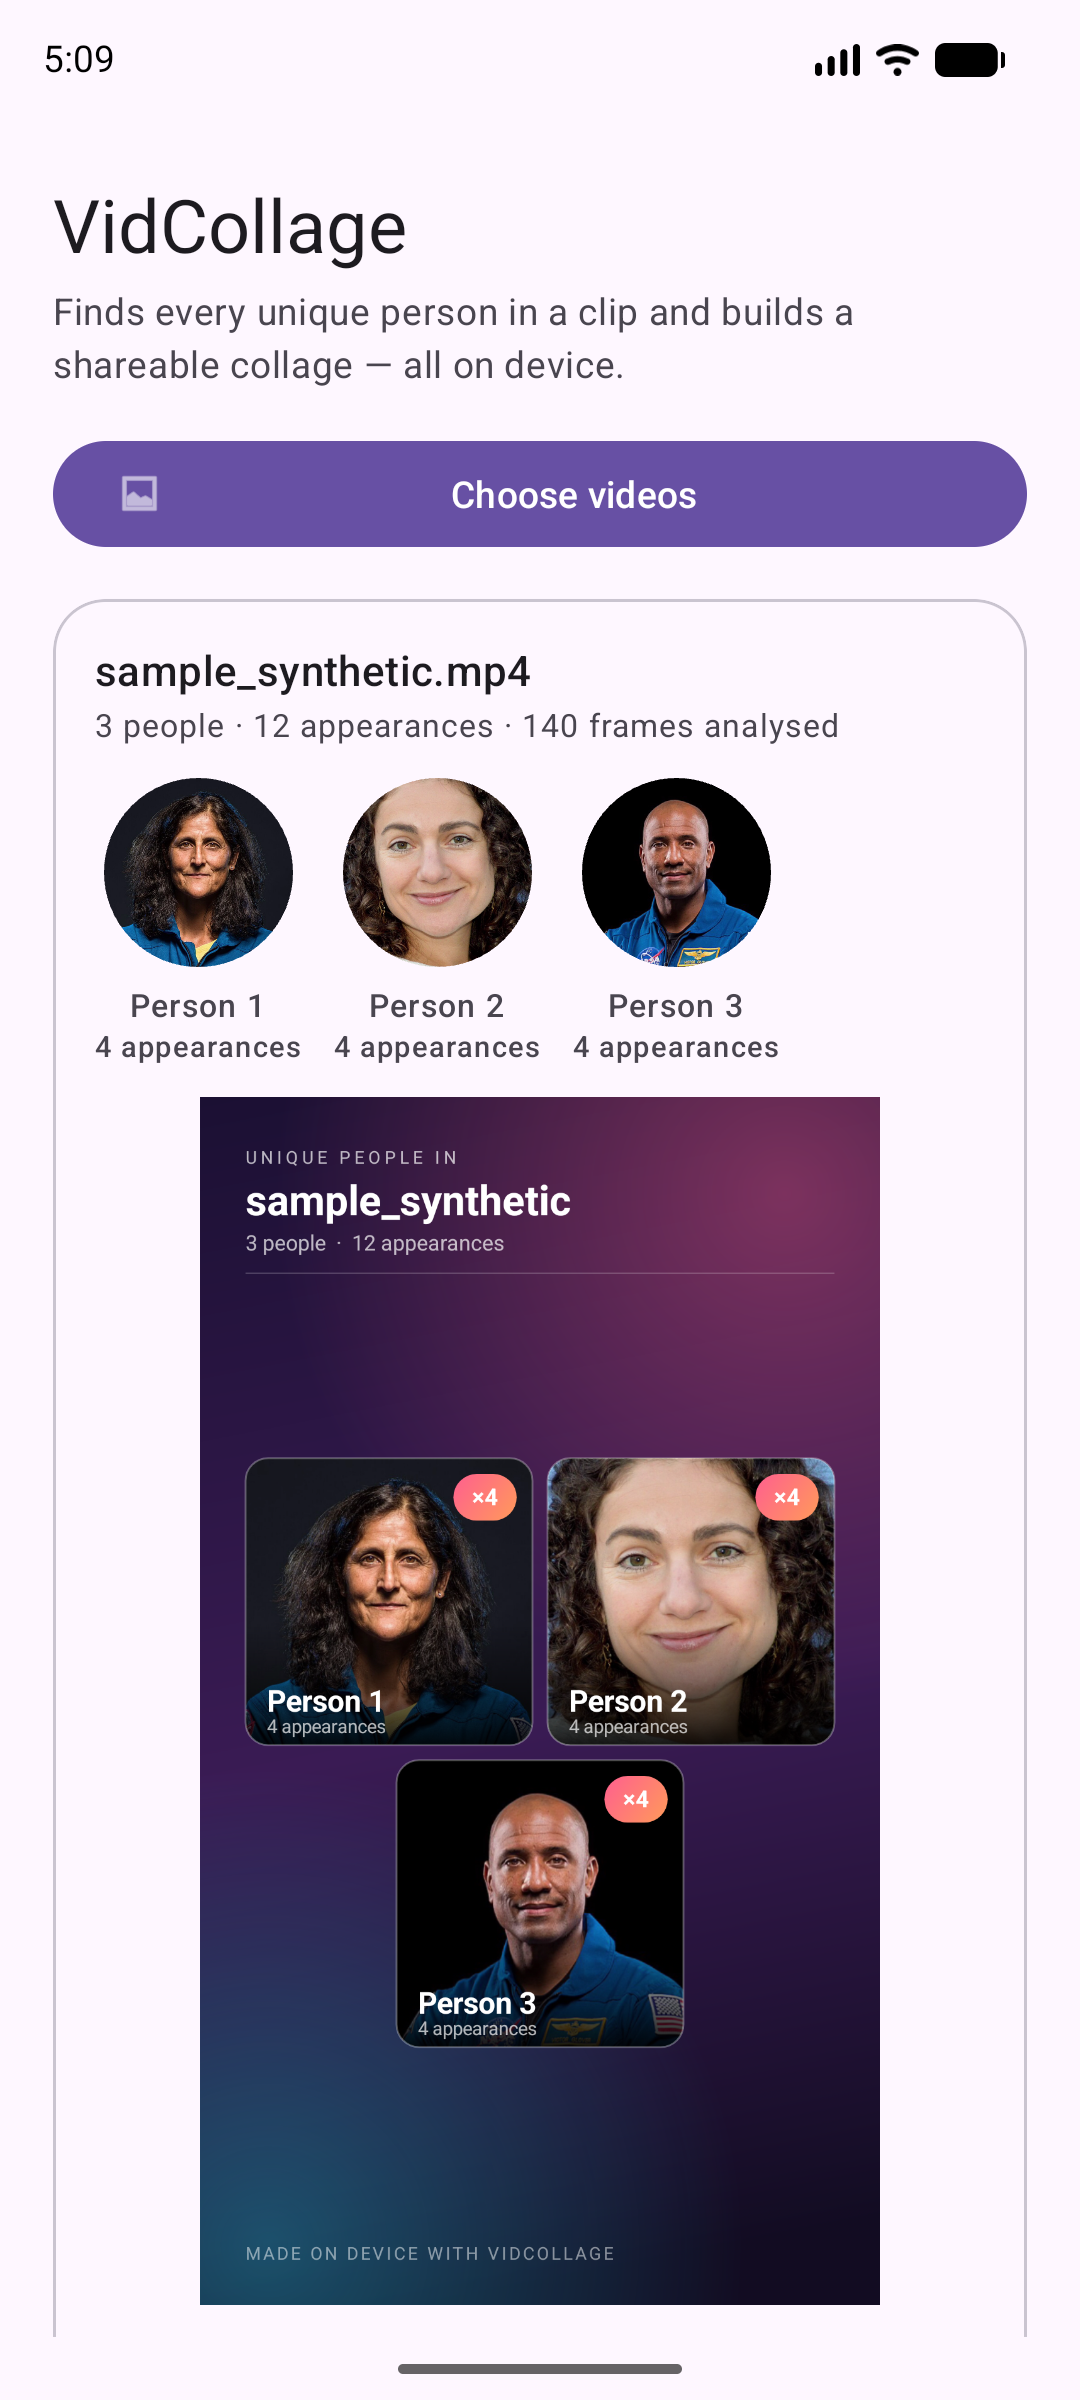
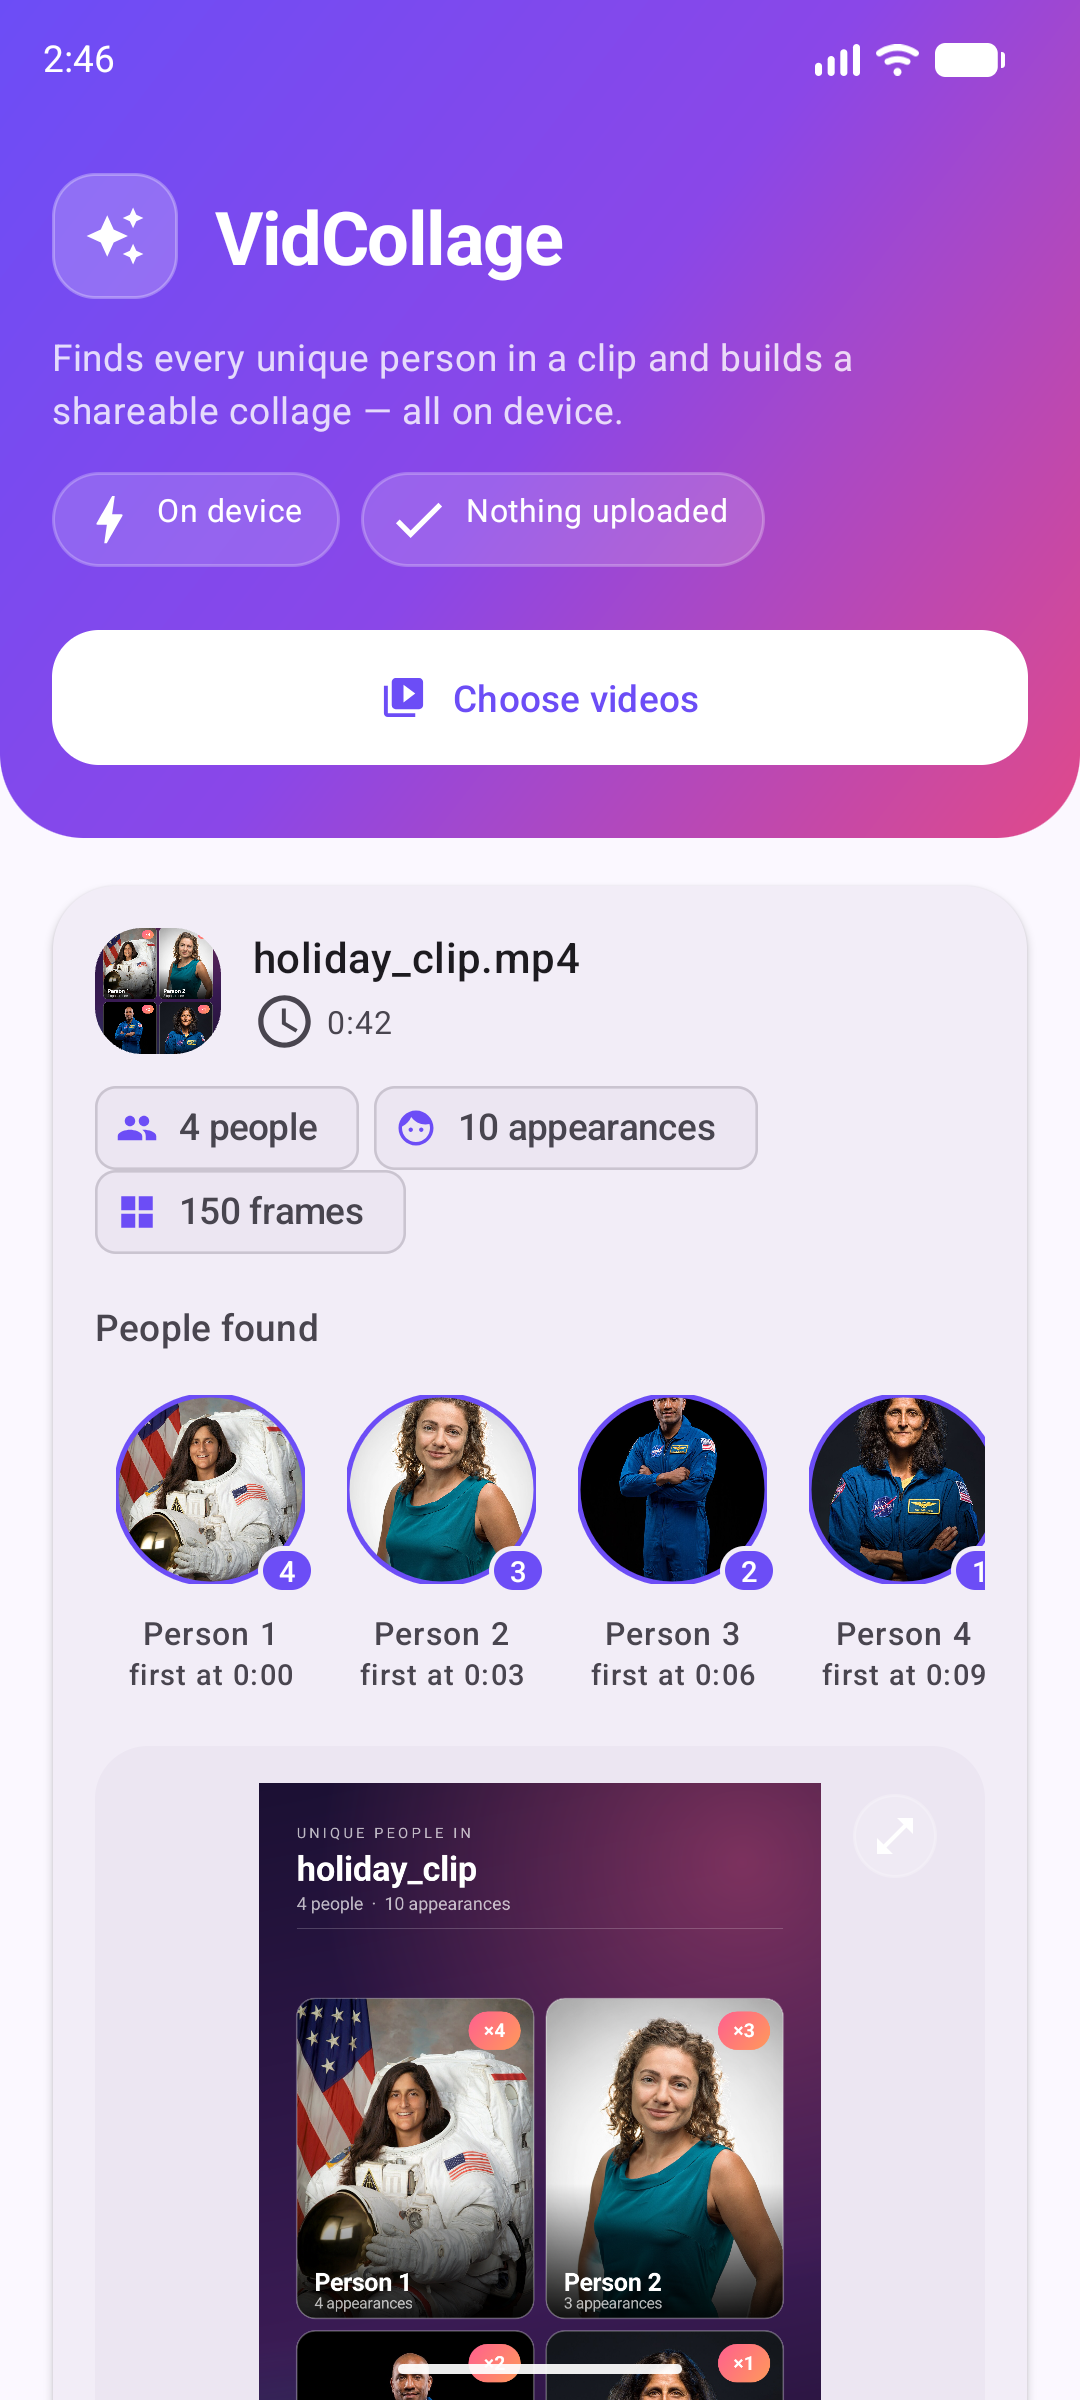
Readme updated

diff --git a/README.md b/README.md
@@ -5,18 +5,84 @@ person shown exactly once alongside how many times they appeared. Everything run
 detection, face embeddings, clustering, shot selection and rendering. There is no backend and no
 network call anywhere in the app.
 
-<img src="docs/screenshot-result.png" width="300" alt="Result screen showing three people and the generated collage">
+<p>
+<img src="docs/screenshot-home.png" width="240" alt="Home screen with the gradient hero and empty state">
+<img src="docs/screenshot-result.png" width="240" alt="Result card showing four people and the generated collage">
+<img src="docs/screenshot-dark.png" width="240" alt="The same result card in dark mode">
+</p>
 
-## Running it
+## At a glance
+
+| | |
+|---|---|
+| **Embedding model** | FaceNet (Inception-ResNet-v1), `app/src/main/assets/facenet.tflite` |
+| **Model input / output** | 160 × 160 × 3 float RGB → 128-D, L2-normalised |
+| **Model size** | 23,705,216 bytes (23.7 MB), bundled in the APK, memory-mapped at runtime |
+| **Face detection** | ML Kit `face-detection` 16.1.7, bundled — no Google Play services needed |
+| **Similarity metric** | Cosine similarity of unit-length embeddings (a plain dot product) |
+| **Identity threshold** | **`MERGE_SIMILARITY = 0.55`** — two clusters are the same person above this |
+| **Tracking threshold** | `MIN_SIMILARITY = 0.45` — a detection may continue an existing appearance above this |
+| **Language / UI** | Kotlin, XML views, Material 3, `minSdk 26`, `targetSdk 37` |
+
+Both thresholds are justified by measurement in [Choosing the similarity threshold](#choosing-the-similarity-threshold).
+
+## Build and setup
+
+### Prerequisites
+
+| | |
+|---|---|
+| **JDK** | 25 — pinned in `gradle/gradle-daemon-jvm.properties`. Gradle downloads a matching toolchain automatically if you do not have one. |
+| **Android SDK** | Platform **API 37** and platform-tools. Install via Android Studio's SDK Manager or `sdkmanager "platforms;android-37" "platform-tools"`. |
+| **Gradle / AGP** | Gradle 9.5 (via the committed wrapper — do not install it yourself) and AGP 9.3.2. |
+| **Device** | Any device or emulator on **API 26+**. Both face models ship inside the APK, so no Play services and no network are required. |
+
+### Point the build at your SDK
+
+`local.properties` is gitignored, so create it after cloning:
 
 ```bash
-./gradlew :app:installDebug
+echo "sdk.dir=$HOME/Library/Android/sdk" > local.properties   # macOS
+echo "sdk.dir=$HOME/Android/Sdk"        > local.properties   # Linux
 ```
 
-Kotlin, XML views, `minSdk 26`, `targetSdk 37`. Open the app, tap **Choose videos**, pick up to five
-clips, and each one gets its own card: the people it found, their appearance counts, the collage, and
-**Save** / **Share**. Saving writes to `Pictures/VidCollage/`; sharing goes through the standard
-Android share sheet via a `FileProvider`.
+Setting the `ANDROID_HOME` environment variable instead works just as well.
+
+### Build a debug APK
+
+```bash
+./gradlew :app:assembleDebug
+```
+
+The APK lands at:
+
+```
+app/build/outputs/apk/debug/app-debug.apk
+```
+
+### Build and install in one step
+
+```bash
+./gradlew :app:installDebug          # builds, installs on the connected device
+adb shell am start -n com.example.vidcollage/.MainActivity
+```
+
+Or install an APK you already have:
+
+```bash
+adb install -r app/build/outputs/apk/debug/app-debug.apk
+```
+
+No signing configuration is needed — the debug build uses the standard debug keystore, which Gradle
+creates on first use.
+
+### Using the app
+
+Tap **Choose videos**, pick up to five clips, and each one gets its own card: the people it found,
+their appearance counts, the collage, and **Save** / **Share**. Tap any face for a sheet showing
+every moment that person is on screen and why their shot was picked; tap the collage for a
+full-screen view. Saving writes to `Pictures/VidCollage/`; sharing goes through the standard Android
+share sheet via a `FileProvider`.
 
 ## How it works
 
@@ -54,21 +120,25 @@ ML Kit's roll angle), padded slightly past the detection box, and resized to the
 The crop is standardised per image ("prewhitening", the preprocessing FaceNet was trained with), and
 the resulting vector is L2-normalised so similarity is a plain dot product.
 
-**Model:** `app/src/main/assets/facenet.tflite` — Inception-ResNet-v1 FaceNet, 160×160×3 float input,
-128-D output, 23.7 MB, taken from
+**Model:** `app/src/main/assets/facenet.tflite` — Inception-ResNet-v1 FaceNet, **160×160×3 float
+input, 128-D output**, 23.7 MB, taken from
 [shubham0204/FaceRecognition_With_FaceNet_Android](https://github.com/shubham0204/FaceRecognition_With_FaceNet_Android)
-(Apache-2.0), itself a TFLite conversion of the Keras port of the original FaceNet weights. The input
-size and embedding length are read off the interpreter at runtime rather than hardcoded, so swapping
-in a different embedding network is a matter of replacing the asset.
+(Apache-2.0), itself a TFLite conversion of the Keras port of the original FaceNet weights.
+
+The interpreter runs with 4 threads, and the asset is memory-mapped rather than copied onto the heap
+(which is why `noCompress += "tflite"` is set in `app/build.gradle.kts` — a compressed asset cannot be
+mapped). The input size and embedding length are read off the interpreter at runtime rather than
+hardcoded, so swapping in a different embedding network is a matter of replacing the asset.
 
 ### 4. Group into appearances — `AppearanceTracker`
 
 An *appearance* is one continuous visible segment. ML Kit only issues tracking ids in stream mode, and
 we deliberately decode sampled frames instead of a live stream, so the association is done here: a
-detection continues an appearance when it looks like the same face (cosine similarity against the
-appearance's running centroid) in roughly the same place (box overlap and proximity), and the segment
-has not been silent for longer than `MAX_GAP_MS`. Matching is greedy on a combined affinity score, one
-detection per appearance per frame. Segments seen in only one frame are discarded as flicker.
+detection continues an appearance when it looks like the same face (cosine similarity ≥
+`MIN_SIMILARITY` against the appearance's running centroid) in roughly the same place (box overlap and
+proximity), and the segment has not been silent for longer than `MAX_GAP_MS`. Matching is greedy on a
+combined affinity score — 0.55 similarity, 0.25 overlap, 0.20 proximity — one detection per appearance
+per frame. Segments seen in only one frame are discarded as flicker.
 
 The 700 ms gap tolerance is what lets a blink, a brief occlusion, or a blurred pan sit *inside* one
 appearance rather than splitting it in two.
@@ -101,7 +171,7 @@ for the collage, so at most one crop per appearance is ever held). The weights:
 Two multiplicative penalties on top: **×0.55** when the face box runs into the frame border (cut-off
 face) and **×0.80** when another face is close enough to crowd into the tile. Both are penalties
 rather than hard rejections, so a person who is *only* ever clipped or *only* ever in a two-shot still
-gets a tile.
+gets a tile. This breakdown is what the per-person bottom sheet renders as bars.
 
 Because sharpness is measured on a fixed-size aligned crop, the number is comparable between a face
 filling the frame and one far away — which is what makes it usable both for scoring and as the blur
@@ -131,33 +201,60 @@ Every threshold lives in a named constant next to the code that uses it. The one
 | `MAX_BOX_CONTAINMENT` | 0.6 | `VideoProcessor` |
 | `MAX_GAP_MS` | 700 | `AppearanceTracker` |
 | `MIN_FRAMES` | 2 | `AppearanceTracker` |
-| `MERGE_SIMILARITY` | 0.55 | `FaceClusterer` |
+| `MIN_SIMILARITY` | 0.45 | `AppearanceTracker` |
+| `MIN_AFFINITY` | 0.45 | `AppearanceTracker` |
+| **`MERGE_SIMILARITY`** | **0.55** | **`FaceClusterer`** |
 
-The two least obvious ones were picked from measurements rather than guessed, and both measurements
-are kept as instrumented tests so they fail if the model or the preprocessing ever drifts:
+### Choosing the similarity threshold
 
-- **`MERGE_SIMILARITY`.** `EmbeddingSeparationTest` embeds two different photographs of each of three
-  people and reports the similarity matrix. Same-person pairs came out at **0.68 / 0.77 / 0.87**;
-  different-person pairs topped out at **0.29**. 0.55 sits in the middle of that gap, and these are
-  photographs taken years apart — frames from a single clip are a much easier case.
-- **`BLUR_FLOOR`.** `BlurGateTest` compares each crisp portrait against a 40 px horizontal smear of
-  itself, roughly one frame of a fast pan. Crisp faces measure **1123–2332**; the smeared versions
-  measure **34–75**. 80 rejects the smear with room to spare while leaving crisp faces untouched.
+`MERGE_SIMILARITY = 0.55` is the one number that decides whether two appearances are the same person,
+so it was picked from a measurement rather than guessed, and the measurement is kept as an instrumented
+test (`EmbeddingSeparationTest`) so it fails if the model or the preprocessing ever drifts.
+
+The test embeds two different photographs of each of three people and reports the full similarity
+matrix. Reproduce it with:
+
+```bash
+./gradlew :app:connectedDebugAndroidTest \
+  -Pandroid.testInstrumentationRunnerArguments.class=com.example.vidcollage.pipeline.EmbeddingSeparationTest
+adb logcat -d -s EmbeddingSeparation:I
+```
+
+Latest run on a Pixel 8a emulator:
+
+| Pair type | Similarities | Range |
+|---|---|---|
+| Same person | 0.682, 0.772, 0.871 | **0.68 – 0.87** |
+| Different people | −0.149 … 0.291 (12 pairs) | **≤ 0.29** |
+
+0.55 sits inside a gap running from 0.29 to 0.68: it clears the hardest different-person pair by 0.26
+and sits 0.13 below the weakest same-person pair. These are photographs of the same person taken years
+apart, which is a far harder case than two frames from a single clip — within one video the
+same-person similarities are higher still, so the practical margin is wider than the table suggests.
+
+`MIN_SIMILARITY = 0.45` is deliberately looser than `MERGE_SIMILARITY`: the tracker also has box
+overlap and proximity to lean on, and being slightly generous there is safe because clustering runs
+afterwards and can still merge two fragments of one person.
+
+`BLUR_FLOOR = 80` was calibrated the same way. `BlurGateTest` compares each crisp portrait against a
+40 px horizontal smear of itself, roughly one frame of a fast pan. Crisp faces measure **1123–2332**;
+the smeared versions measure **34–75**. 80 rejects the smear with room to spare while leaving crisp
+faces untouched.
 
 ## Tests
 
 ```bash
 ./gradlew :app:testDebugUnitTest          # 21 JVM tests
-./gradlew :app:connectedDebugAndroidTest  # needs a device or emulator with Google Play services
+./gradlew :app:connectedDebugAndroidTest  # 4 instrumented tests, needs a device or emulator
 ```
 
 **JVM** — the tracker's temporal logic (continuous segments, gap splitting, blink tolerance, two
 people in one frame, flicker rejection), the clusterer (merging, separation, the cannot-link
 constraint, ordering), the quality scoring, and the embedding vector maths.
 
-**Instrumented** — the two calibration tests above, a collage rendering test that checks every group
-size the grid has a case for, and `VideoPipelineEndToEndTest`, which runs the entire pipeline over a
-real clip. That test skips unless you supply one:
+**Instrumented** — the two calibration tests above and a collage rendering test that checks every
+group size the grid has a case for. A fourth, `VideoPipelineEndToEndTest`, runs the entire pipeline
+over a real clip and **skips unless you supply one**:
 
 ```bash
 adb push your_clip.mp4 /sdcard/Android/data/com.example.vidcollage/files/testclip.mp4
@@ -179,6 +276,20 @@ pass that decodes the stream once sequentially and keeps every *n*th frame. That
 would cut the dominant cost, but it is a decoder rewrite with real surface-format risk, and the brief
 asks to prioritise a working end-to-end flow — so it is written down here rather than half-built.
 
+## APK size
+
+The debug APK is ~80 MB, and all of it is models and native code:
+
+| Contents | Size |
+|---|---|
+| `assets/facenet.tflite` (stored uncompressed so it can be mapped) | 23.7 MB |
+| ML Kit bundled face detector, native libs × 4 ABIs | ~33 MB |
+| TensorFlow Lite native libs × 4 ABIs | ~15 MB |
+| Everything else (dex, resources) | ~16 MB |
+
+Nothing is downloaded at runtime, which is the trade being made. A release build with ABI splits or an
+App Bundle drops the per-device download to roughly a third, since only one ABI ships to each device.
+
 ## Known limitations
 
 - Faces that ML Kit cannot detect at all — extreme profiles, very small faces, heavy occlusion — are
@@ -188,9 +299,3 @@ asks to prioritise a working end-to-end flow — so it is written down here rath
 - Appearance counting is quantised to the 200 ms sampling grid: a segment shorter than ~400 ms can
   fall below the two-frame minimum and be dropped as flicker.
 - Results live in memory only; nothing is persisted across process death.
-
-## Credits
-
-The instrumented tests use six public-domain NASA portraits (two each of Sunita Williams, Jessica Meir
-and Victor Glover) from Wikimedia Commons, in `app/src/androidTest/assets/calibration/`. The FaceNet
-weights are Apache-2.0, credited in full above.
